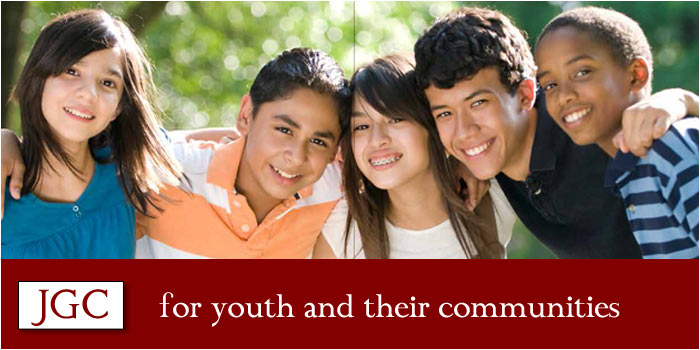
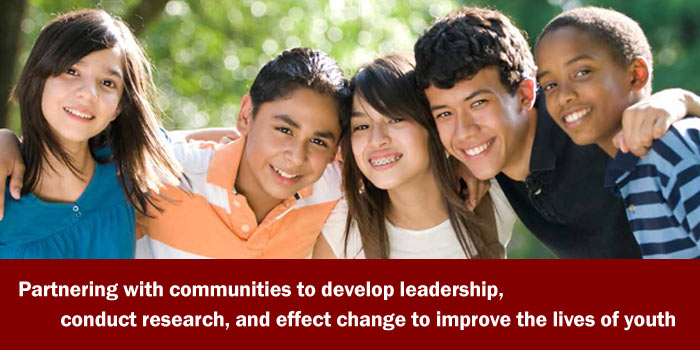
updated homepage graphics

diff --git a/content-index2.html b/content-index2.html
@@ -16,7 +16,7 @@
 			
 <a href="/resources/jgc_brochure.pdf#page=5"><img src="images/homegraphic3.jpg" alt=""></a>
             
-           <a href="/resources/jgc_brochure.pdf#page=6"><img src="images/homegraphic4.jpg" alt=""></a>
+           <a href="/aboutjgc/mission.html"><img src="images/homegraphic4.jpg" alt=""></a>
 
 		</div>
 

diff --git a/index.html b/index.html
@@ -22,7 +22,7 @@ document.createElement("article" );
 
 <body>
 <!--#include virtual="/content-menu-top.html" -->
-<!--#include virtual="content-index.html" -->
+<!--#include virtual="content-index2.html" -->
 <!--#include virtual="/content-footer.html" -->
 <!--#include virtual="/content-analytics.html" -->
 </body>

diff --git a/css/style.css b/css/style.css
@@ -150,7 +150,7 @@ h3 {
 	float: left;
 	border-style: outset;
 	border-width: 1px;
-	border-color: #827252;
+	border-color: #FFFFFF;
 	font-size:14px;
 	font-family: "News Gothic";
 	font-weight:bold;
